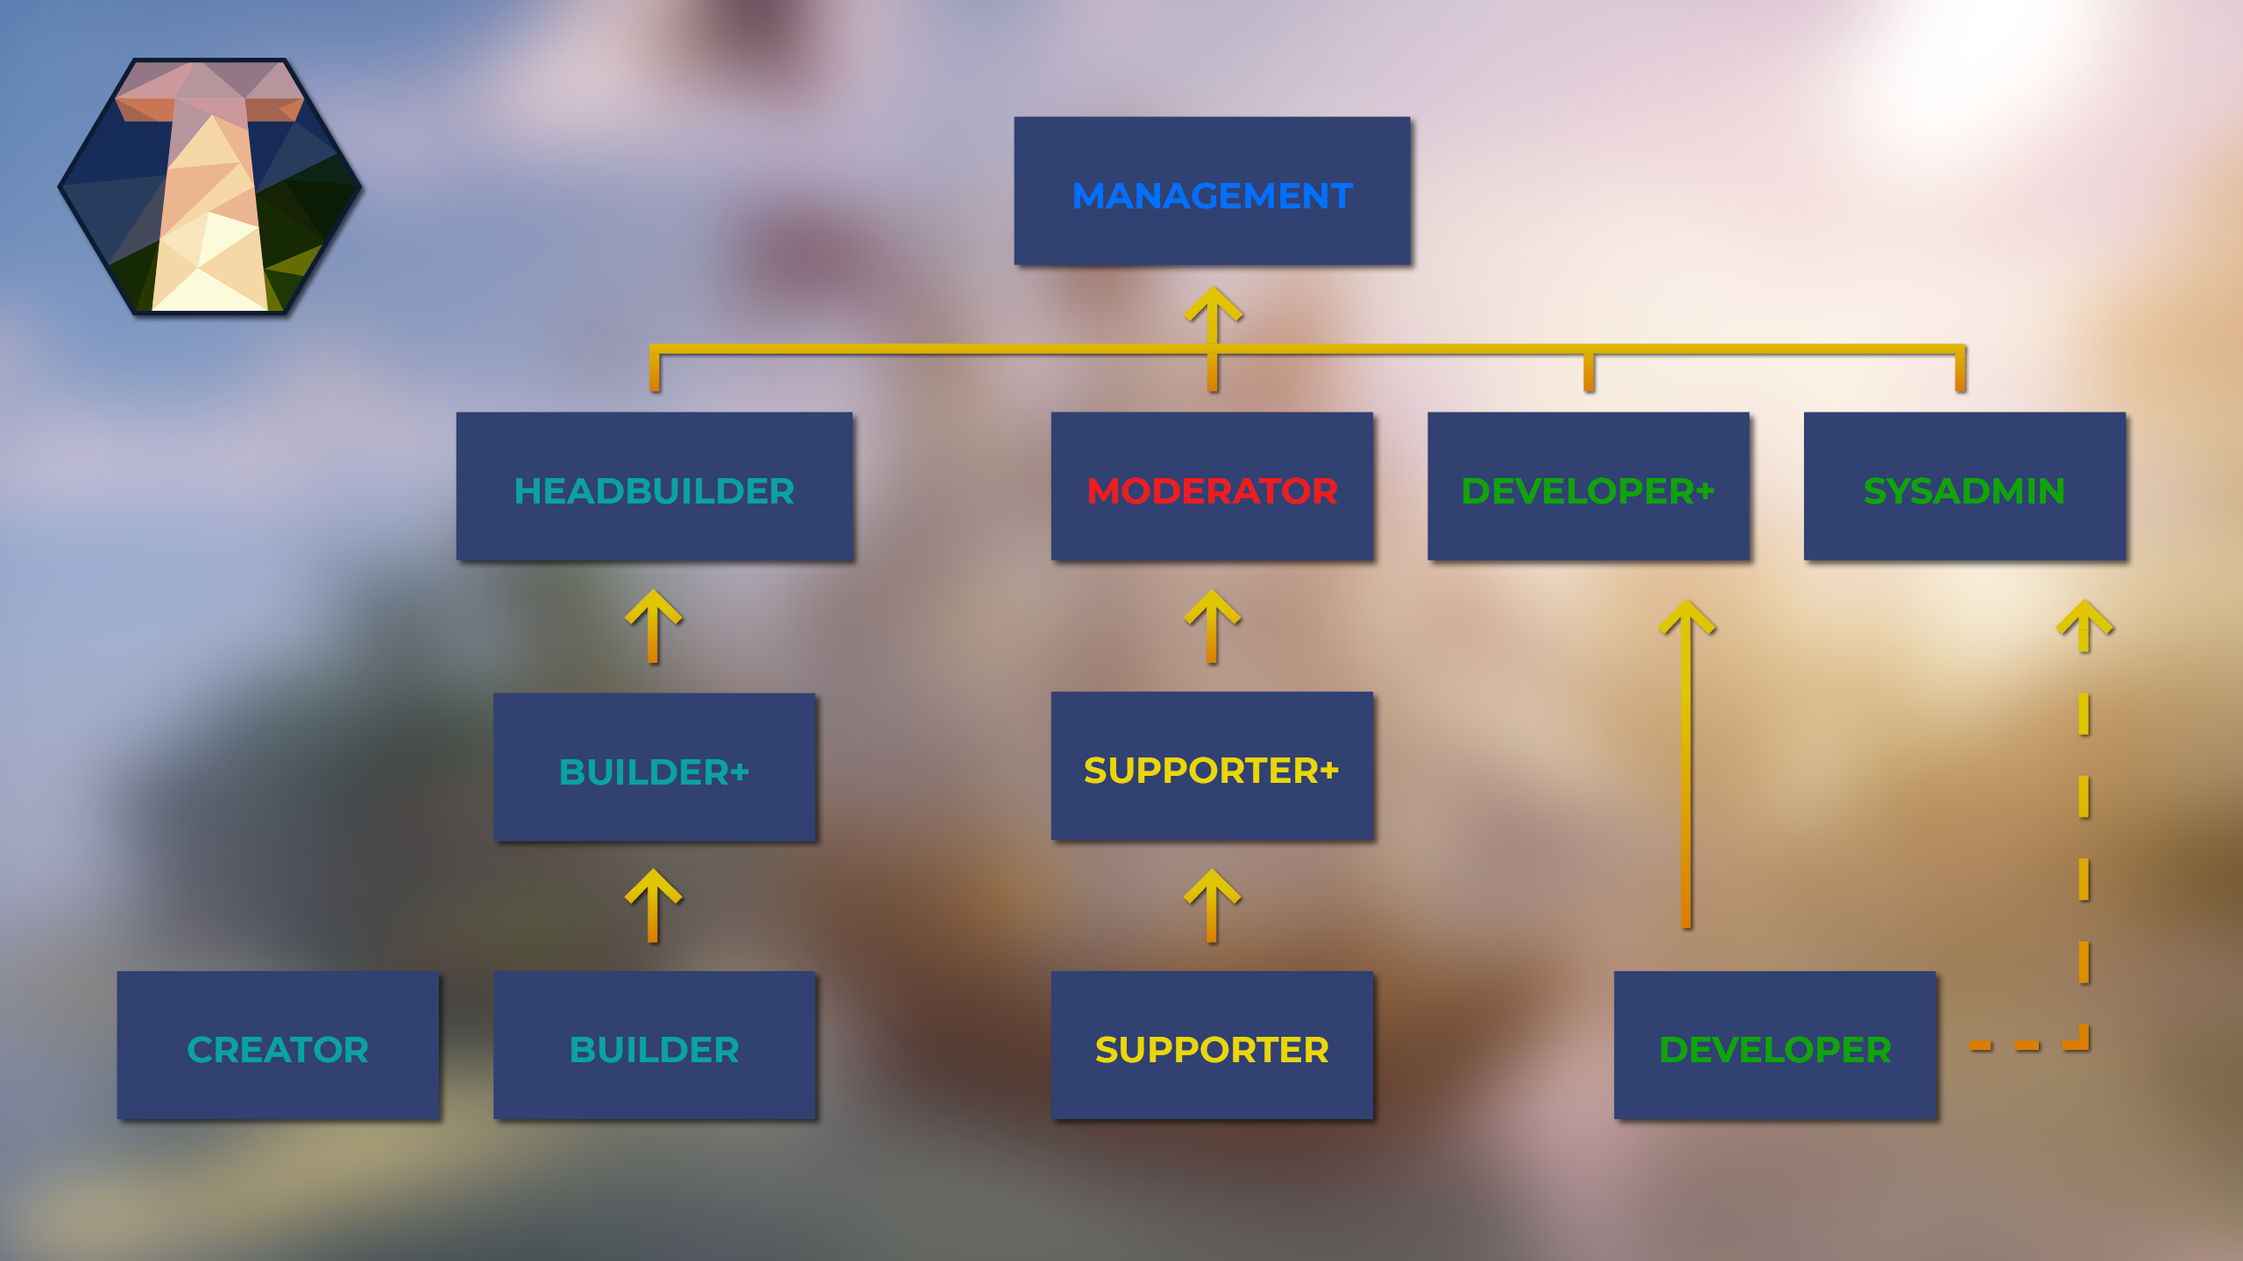
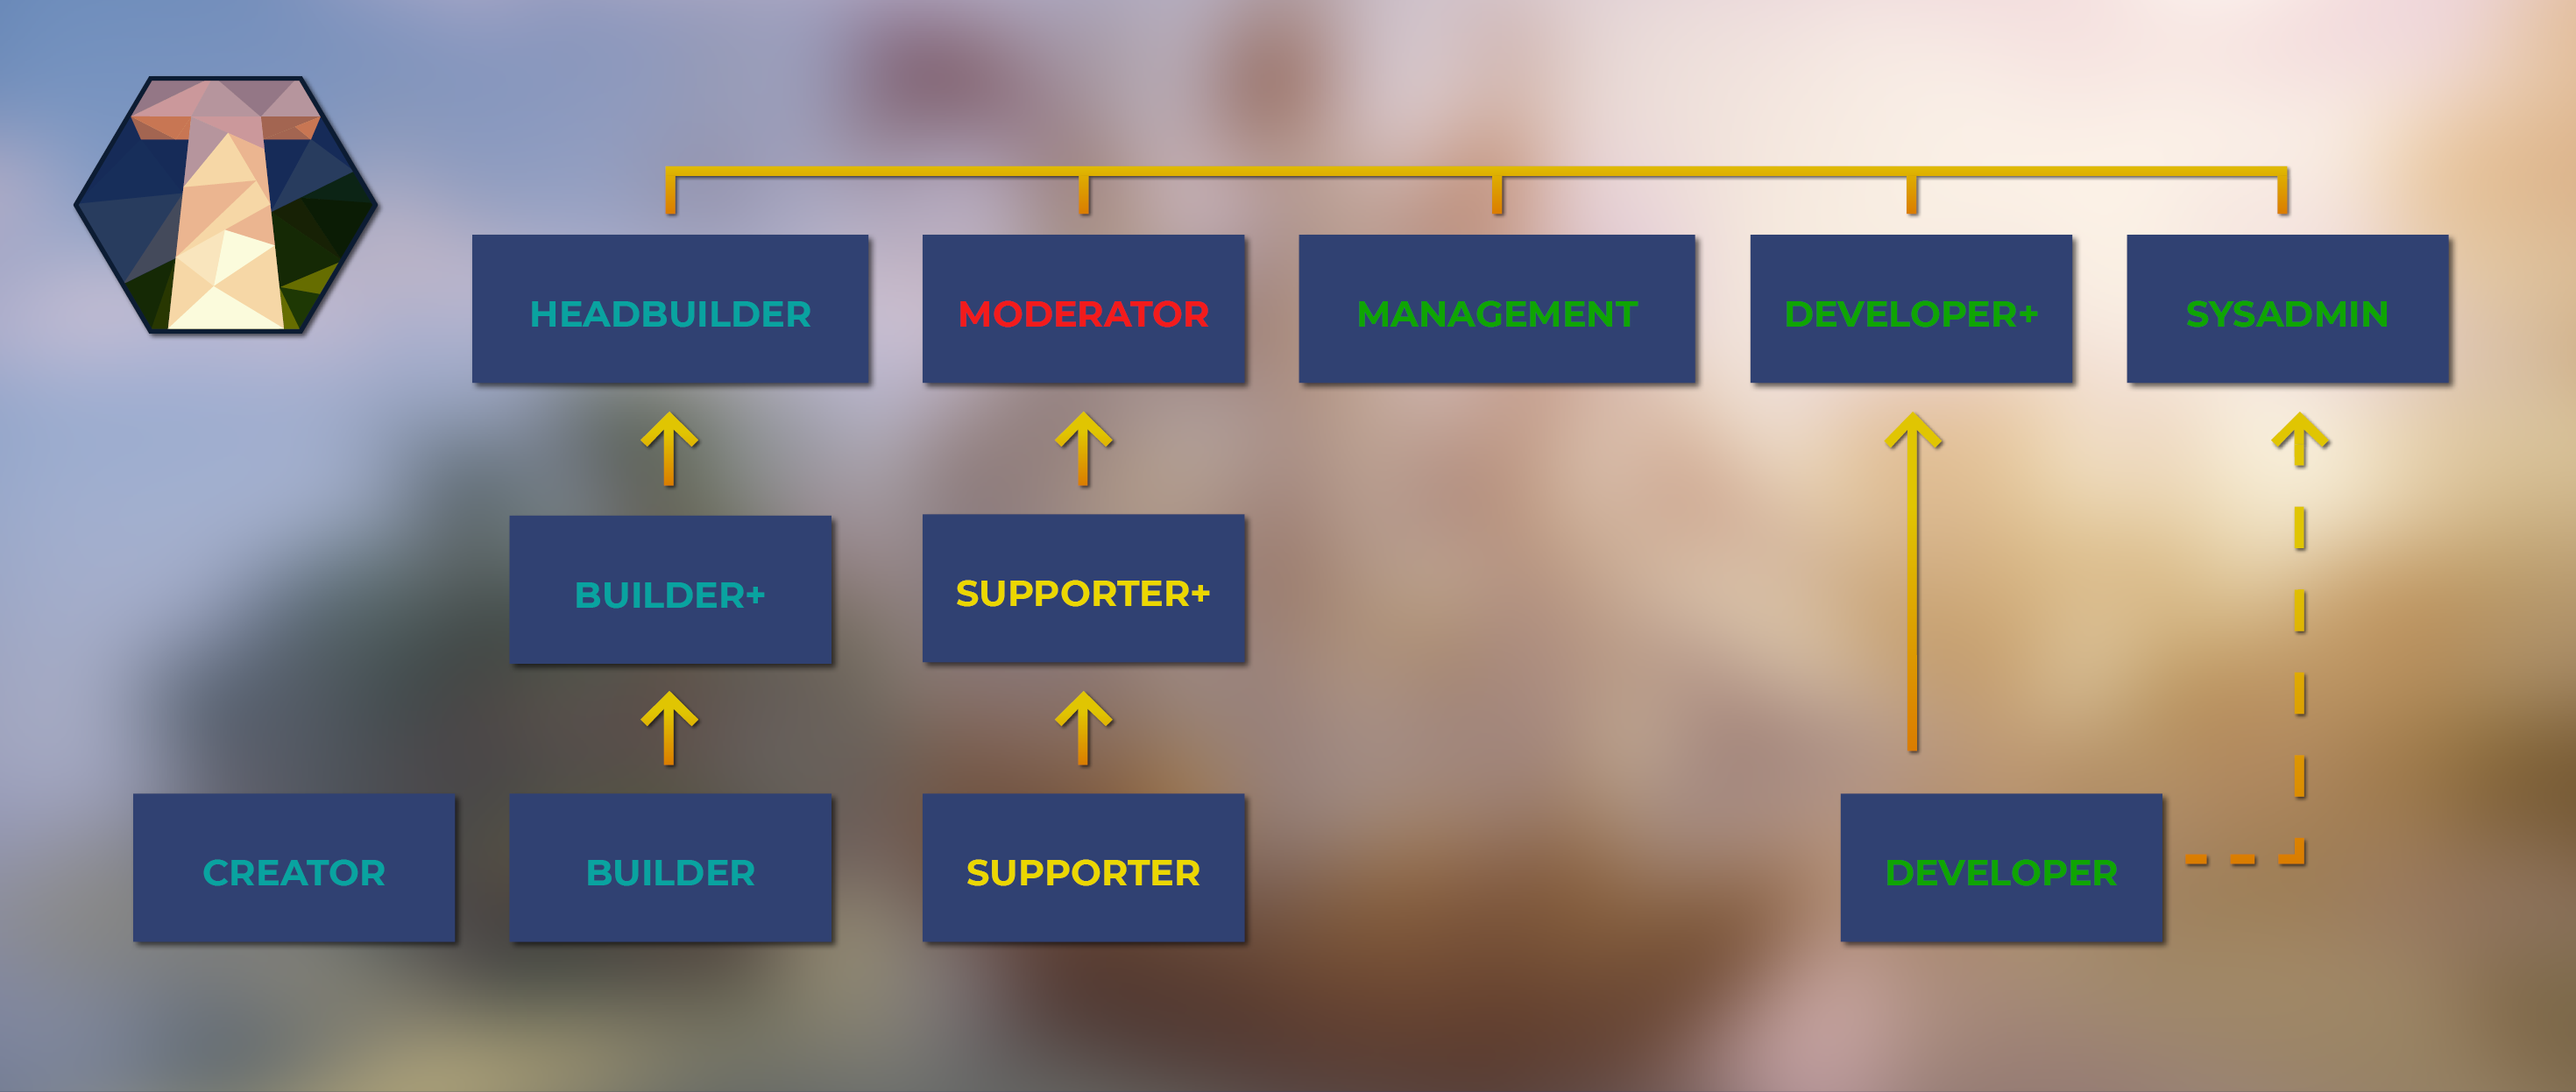
Management wird grün

diff --git a/docs/extra.css b/docs/extra.css
@@ -279,7 +279,7 @@ style ranks
  */
 
 .management {
-    color: #2a84c0;
+    color: #009e18;
 }
 
 
